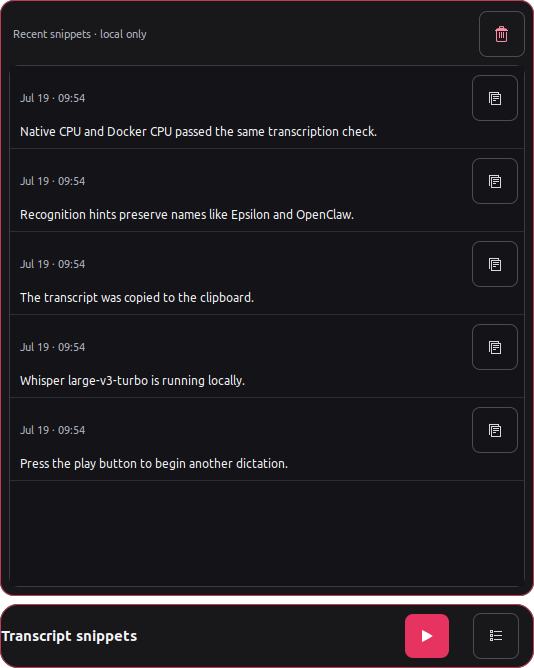
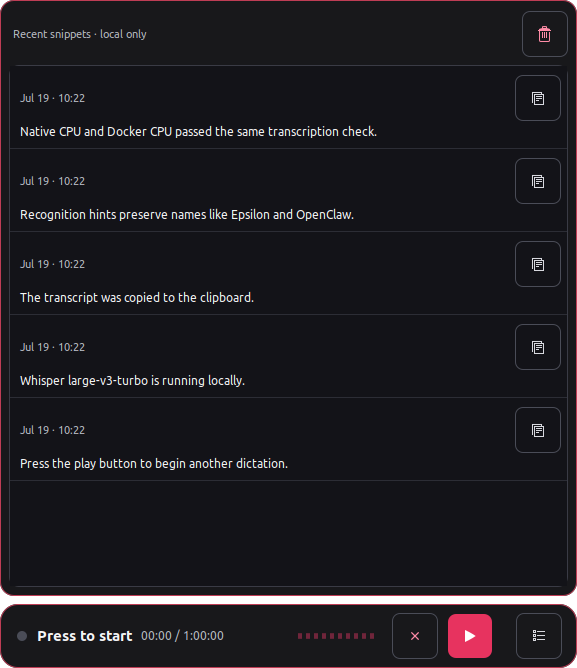
Unify idle transcript and dictation controls
Keep transcript history on the real listener surface with a parked timer, static meter, play-to-start action, and close control. Preserve immediate recording for hotkey and tray start paths while fixing the clipped idle title.

diff --git a/src/epsilon_flow/listener.py b/src/epsilon_flow/listener.py
@@ -116,11 +116,18 @@ window#listener_window {
   box-shadow: none;
 }
 
-#recording_dot {
-  background: #ff3f6e;
+#recording_dot, #idle_dot {
   border-radius: 5px;
   min-width: 10px;
   min-height: 10px;
+}
+
+#recording_dot {
+  background: #ff3f6e;
+}
+
+#idle_dot {
+  background: #4a4c57;
 }
 
 #action_button, #danger_button, #stop_button {
@@ -361,8 +368,8 @@ class DictationListener(Gtk.Window):
 
         self.cancel_button = self.icon_button(
             self.first_available_icon("window-close-symbolic", "edit-delete-symbolic", "process-stop-symbolic"),
-            "Cancel",
-            "Discard this recording without transcription or delivery",
+            "Cancel or close",
+            "Close this window; while recording, discard the current capture",
             name="danger_button",
         )
         self.cancel_button.connect("clicked", self.cancel_recording)
@@ -449,7 +456,7 @@ class DictationListener(Gtk.Window):
     def present_snippets(self) -> None:
         self.refresh_snippets()
         if not self.recording:
-            self.set_idle("Transcript snippets")
+            self.set_idle("Press to start")
         self.show_all()
         self.drawer_revealer.set_reveal_child(True)
         self.apply_mode_controls()
@@ -541,6 +548,7 @@ class DictationListener(Gtk.Window):
     def set_recording(self, recording: bool, title: str) -> None:
         self.recording = recording
         self.title_label.set_text(title)
+        self.recording_dot.set_name("recording_dot" if recording else "idle_dot")
         self.apply_mode_controls()
         self.refresh_device_toast()
         if recording and self.get_visible():
@@ -548,18 +556,28 @@ class DictationListener(Gtk.Window):
         if not recording:
             self.stop_audio_meter()
 
-    def set_idle(self, title: str = "Ready") -> None:
+    def set_idle(self, title: str = "Press to start") -> None:
         self.recording_started = 0.0
-        self.elapsed.set_text("")
+        self.elapsed.set_text("00:00 / 1:00:00")
         self.set_recording(False, title)
 
     def apply_mode_controls(self) -> None:
-        self.recording_dot.set_visible(self.recording)
-        self.elapsed.set_visible(self.recording)
-        self.meter.set_visible(self.recording)
+        # Idle transcript mode keeps the same geometry as active dictation:
+        # a parked timer, static meter, play action, and close control. This
+        # makes starting recording an in-place state change instead of a jump
+        # between two visually unrelated launchers.
+        self.recording_dot.set_visible(True)
+        self.elapsed.set_visible(True)
+        self.meter.set_visible(True)
         self.stop_button.set_visible(self.recording)
-        self.cancel_button.set_visible(self.recording)
+        self.cancel_button.set_visible(True)
         self.start_button.set_visible(not self.recording)
+        if self.recording:
+            self.cancel_button.set_tooltip_text("Discard this recording without transcription or delivery")
+            self.cancel_button.get_accessible().set_name("Cancel recording")
+        else:
+            self.cancel_button.set_tooltip_text("Close the dictation window")
+            self.cancel_button.get_accessible().set_name("Close")
 
     def start_recording(self, _button: Gtk.Button) -> None:
         if not self.recording:
@@ -613,6 +631,7 @@ class DictationListener(Gtk.Window):
 
     def cancel_recording(self, _button: Gtk.Button) -> None:
         if not self.recording:
+            self.hide()
             return
         self.set_finishing("Discarding recording…")
         self.hide()
